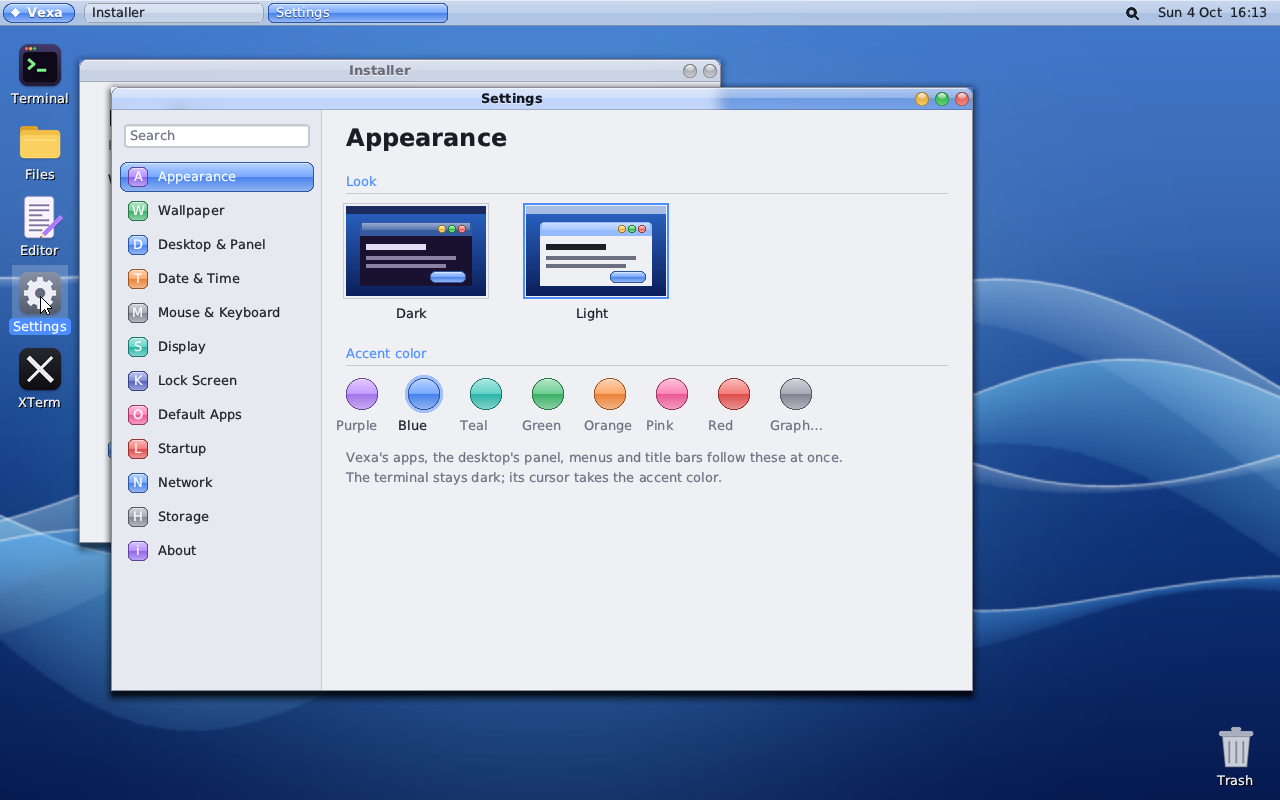
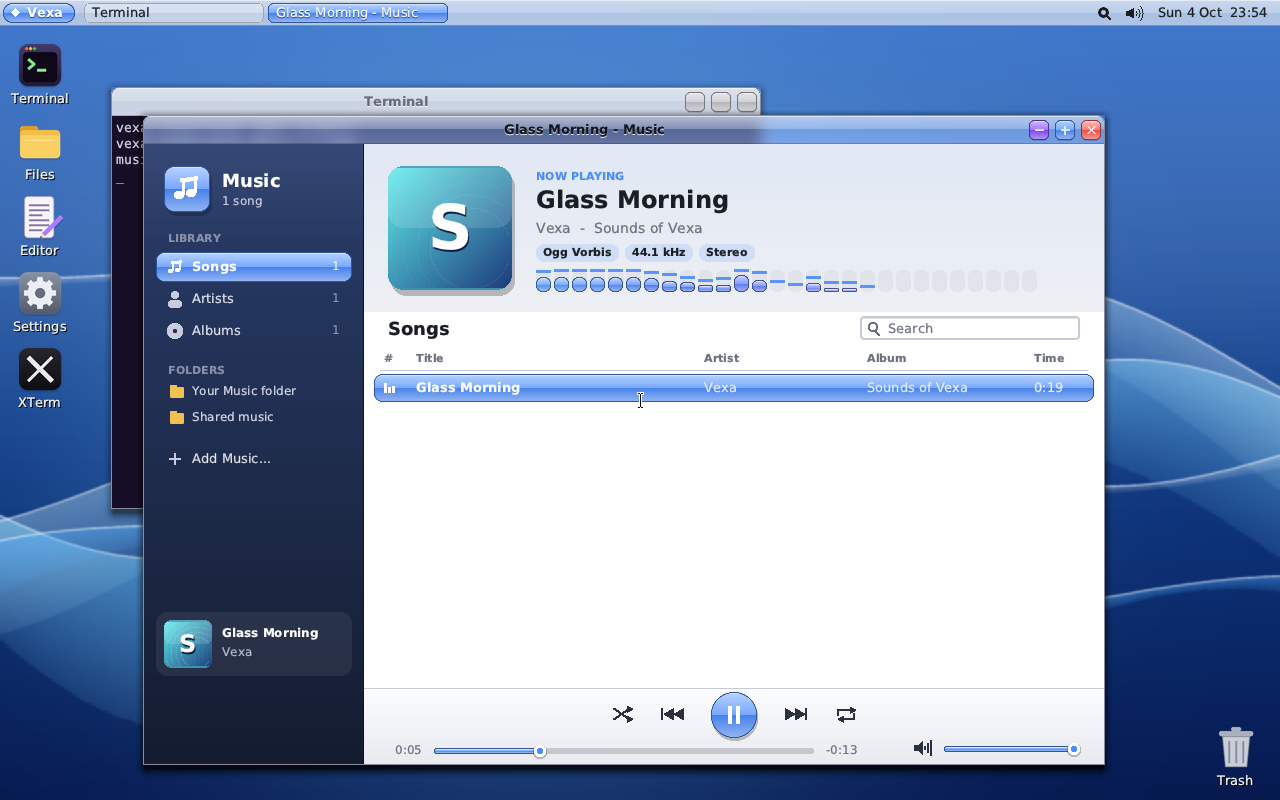
Docs: new screenshots of the desktop (Music playing) and Files in the 0.30.0 look
Claude-Session: https://claude.ai/code/session_01LiauU35UtsoqbBQdZgQeXM

diff --git a/docs/index.html b/docs/index.html
@@ -245,7 +245,7 @@ pre {
       <h2 id="screenshots">Screenshots</h2>
       <div class="shots">
         <div><a href="desktop-screenshot.png"><img class="shot" src="desktop-screenshot.png" alt="The Vexa desktop" width="320" height="200" /></a><br />The desktop</div>
-        <div><a href="files-screenshot.png"><img class="shot" src="files-screenshot.png" alt="Files, the file manager" width="296" height="200" /></a><br />Files</div>
+        <div><a href="files-screenshot.png"><img class="shot" src="files-screenshot.png" alt="Files, the file manager" width="292" height="200" /></a><br />Files</div>
       </div>
 
       <h2 id="try">Try it in 30 seconds</h2>

diff --git a/README.md b/README.md
@@ -15,7 +15,7 @@ SDL 2, on another machine), the [API reference](docs/API.md) (libvexa), the
 
 ![Vexa running in QEMU](docs/screenshot.png)
 
-![The Vexa desktop: glass title bars and panel, Settings and the Installer](docs/desktop-screenshot.png)
+![The Vexa desktop: Music playing, with the glass title bars and panel](docs/desktop-screenshot.png)
 
 ## Status
 
